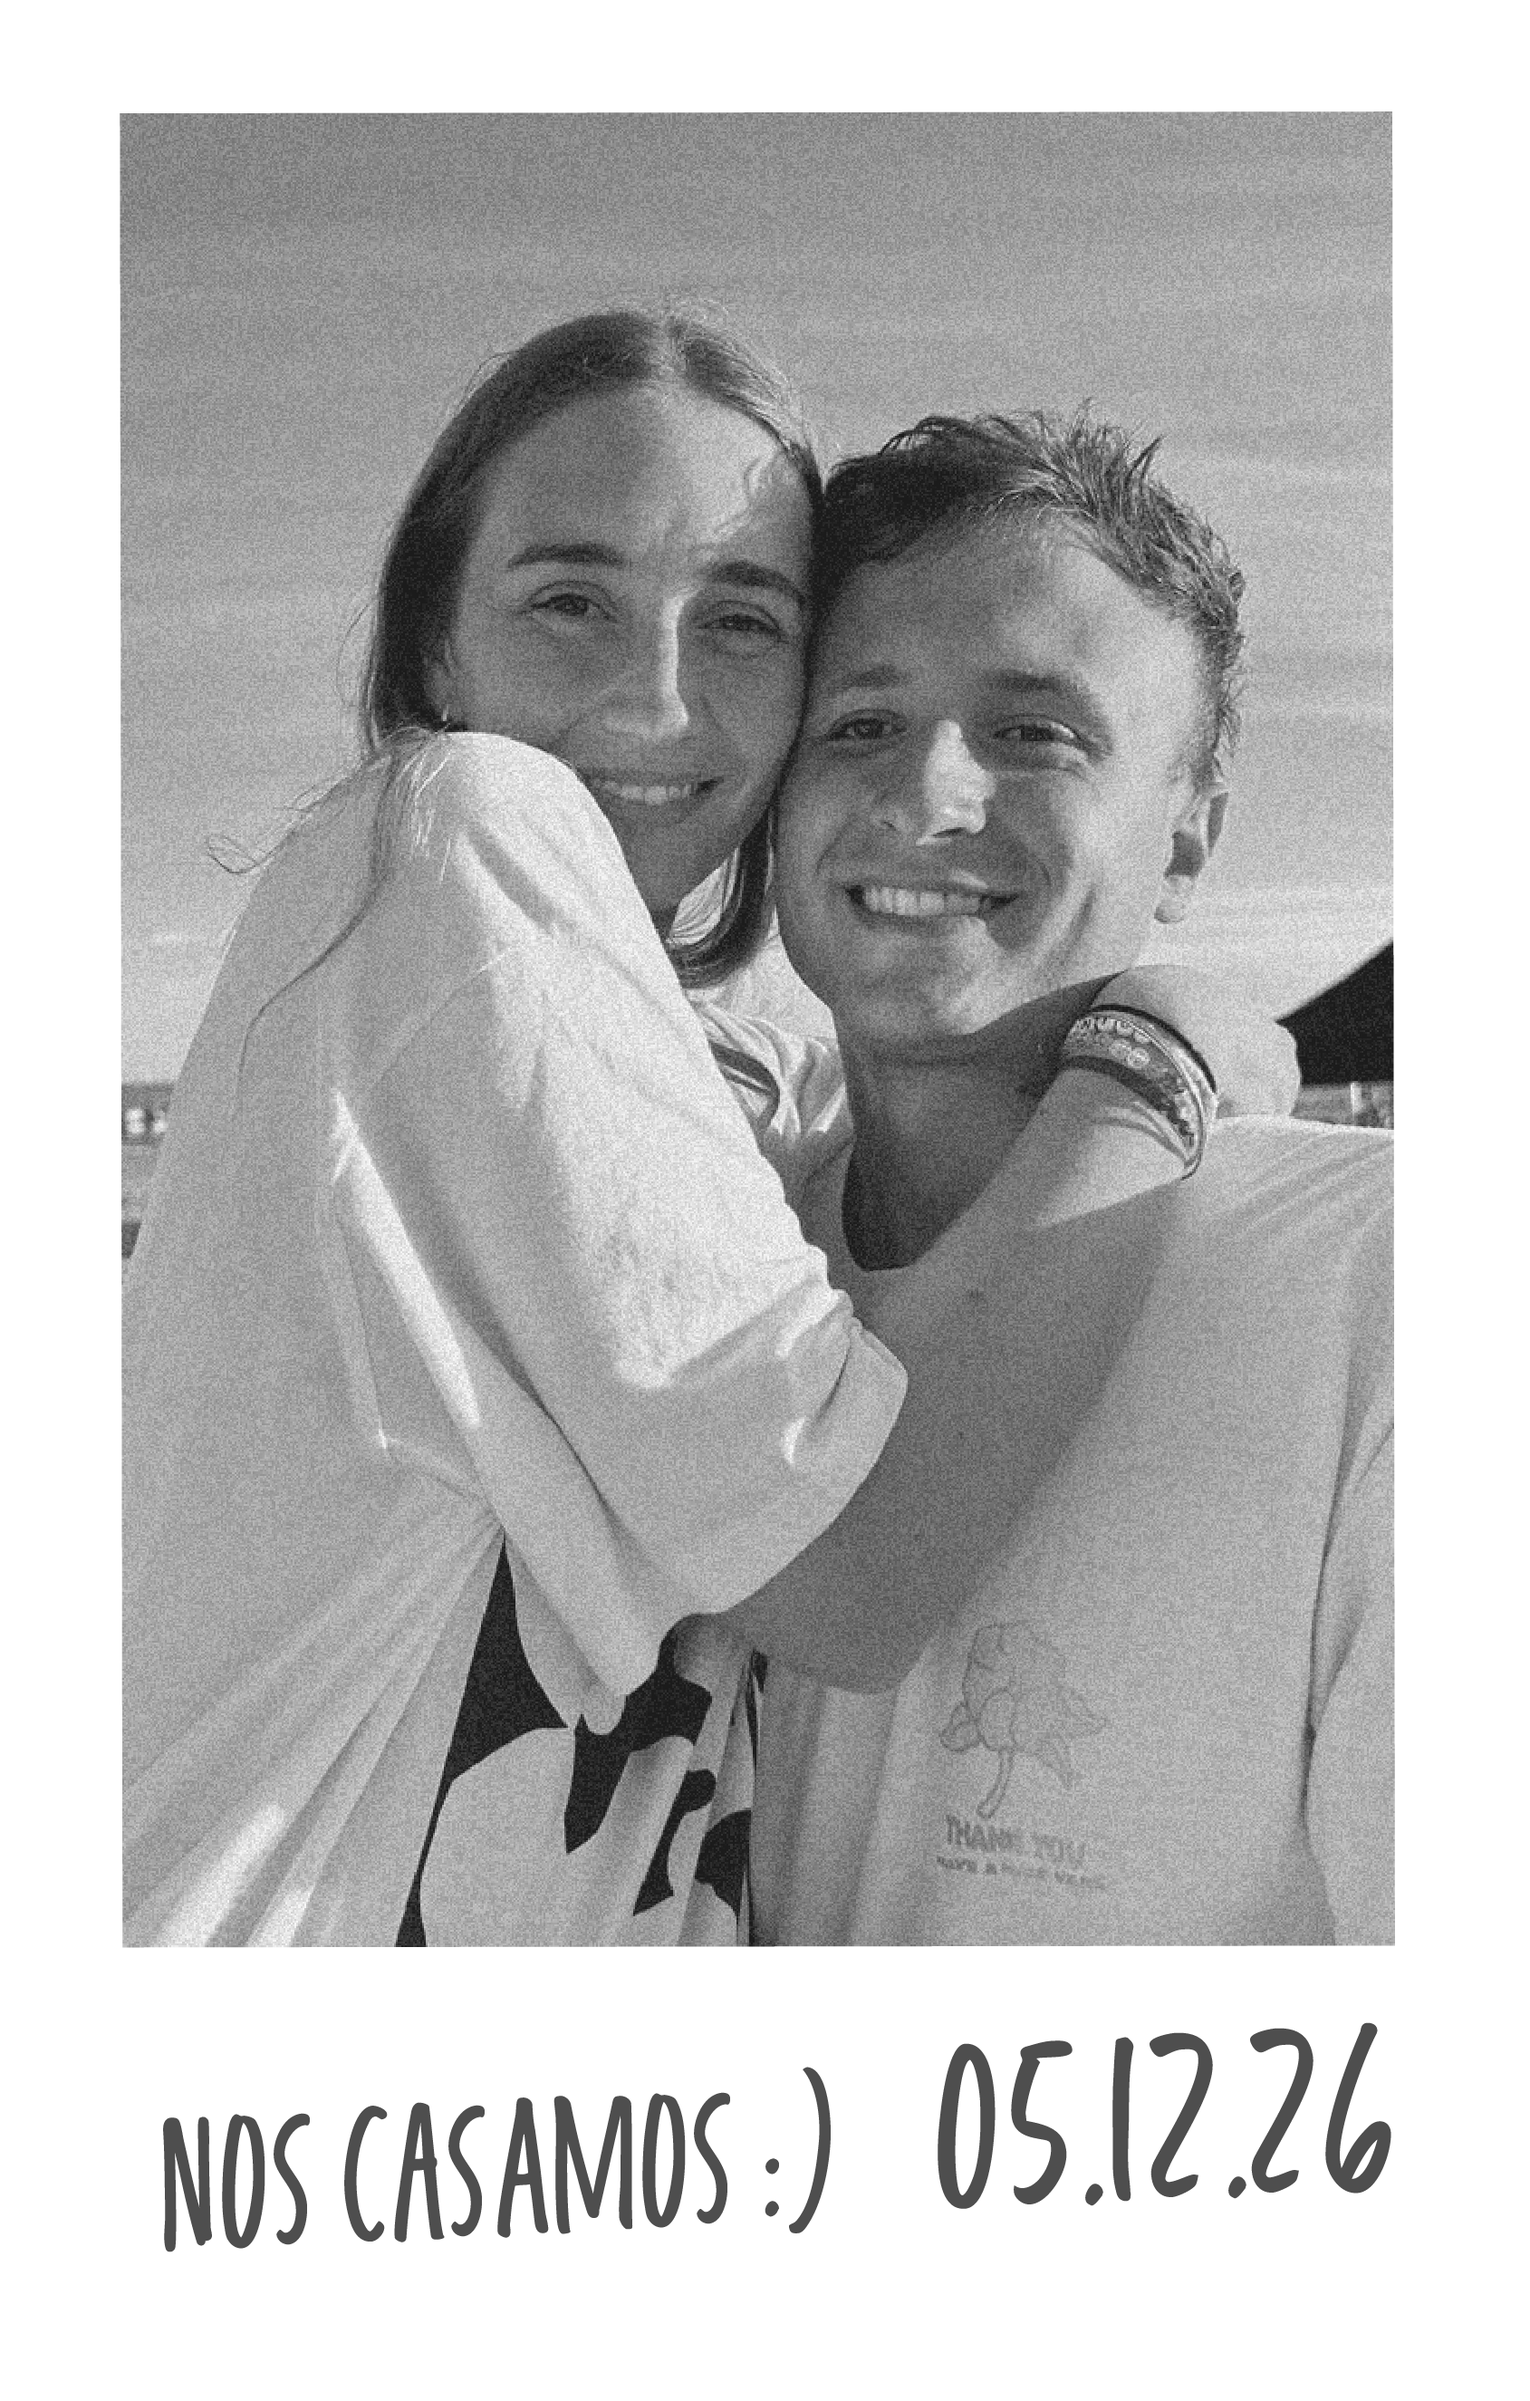
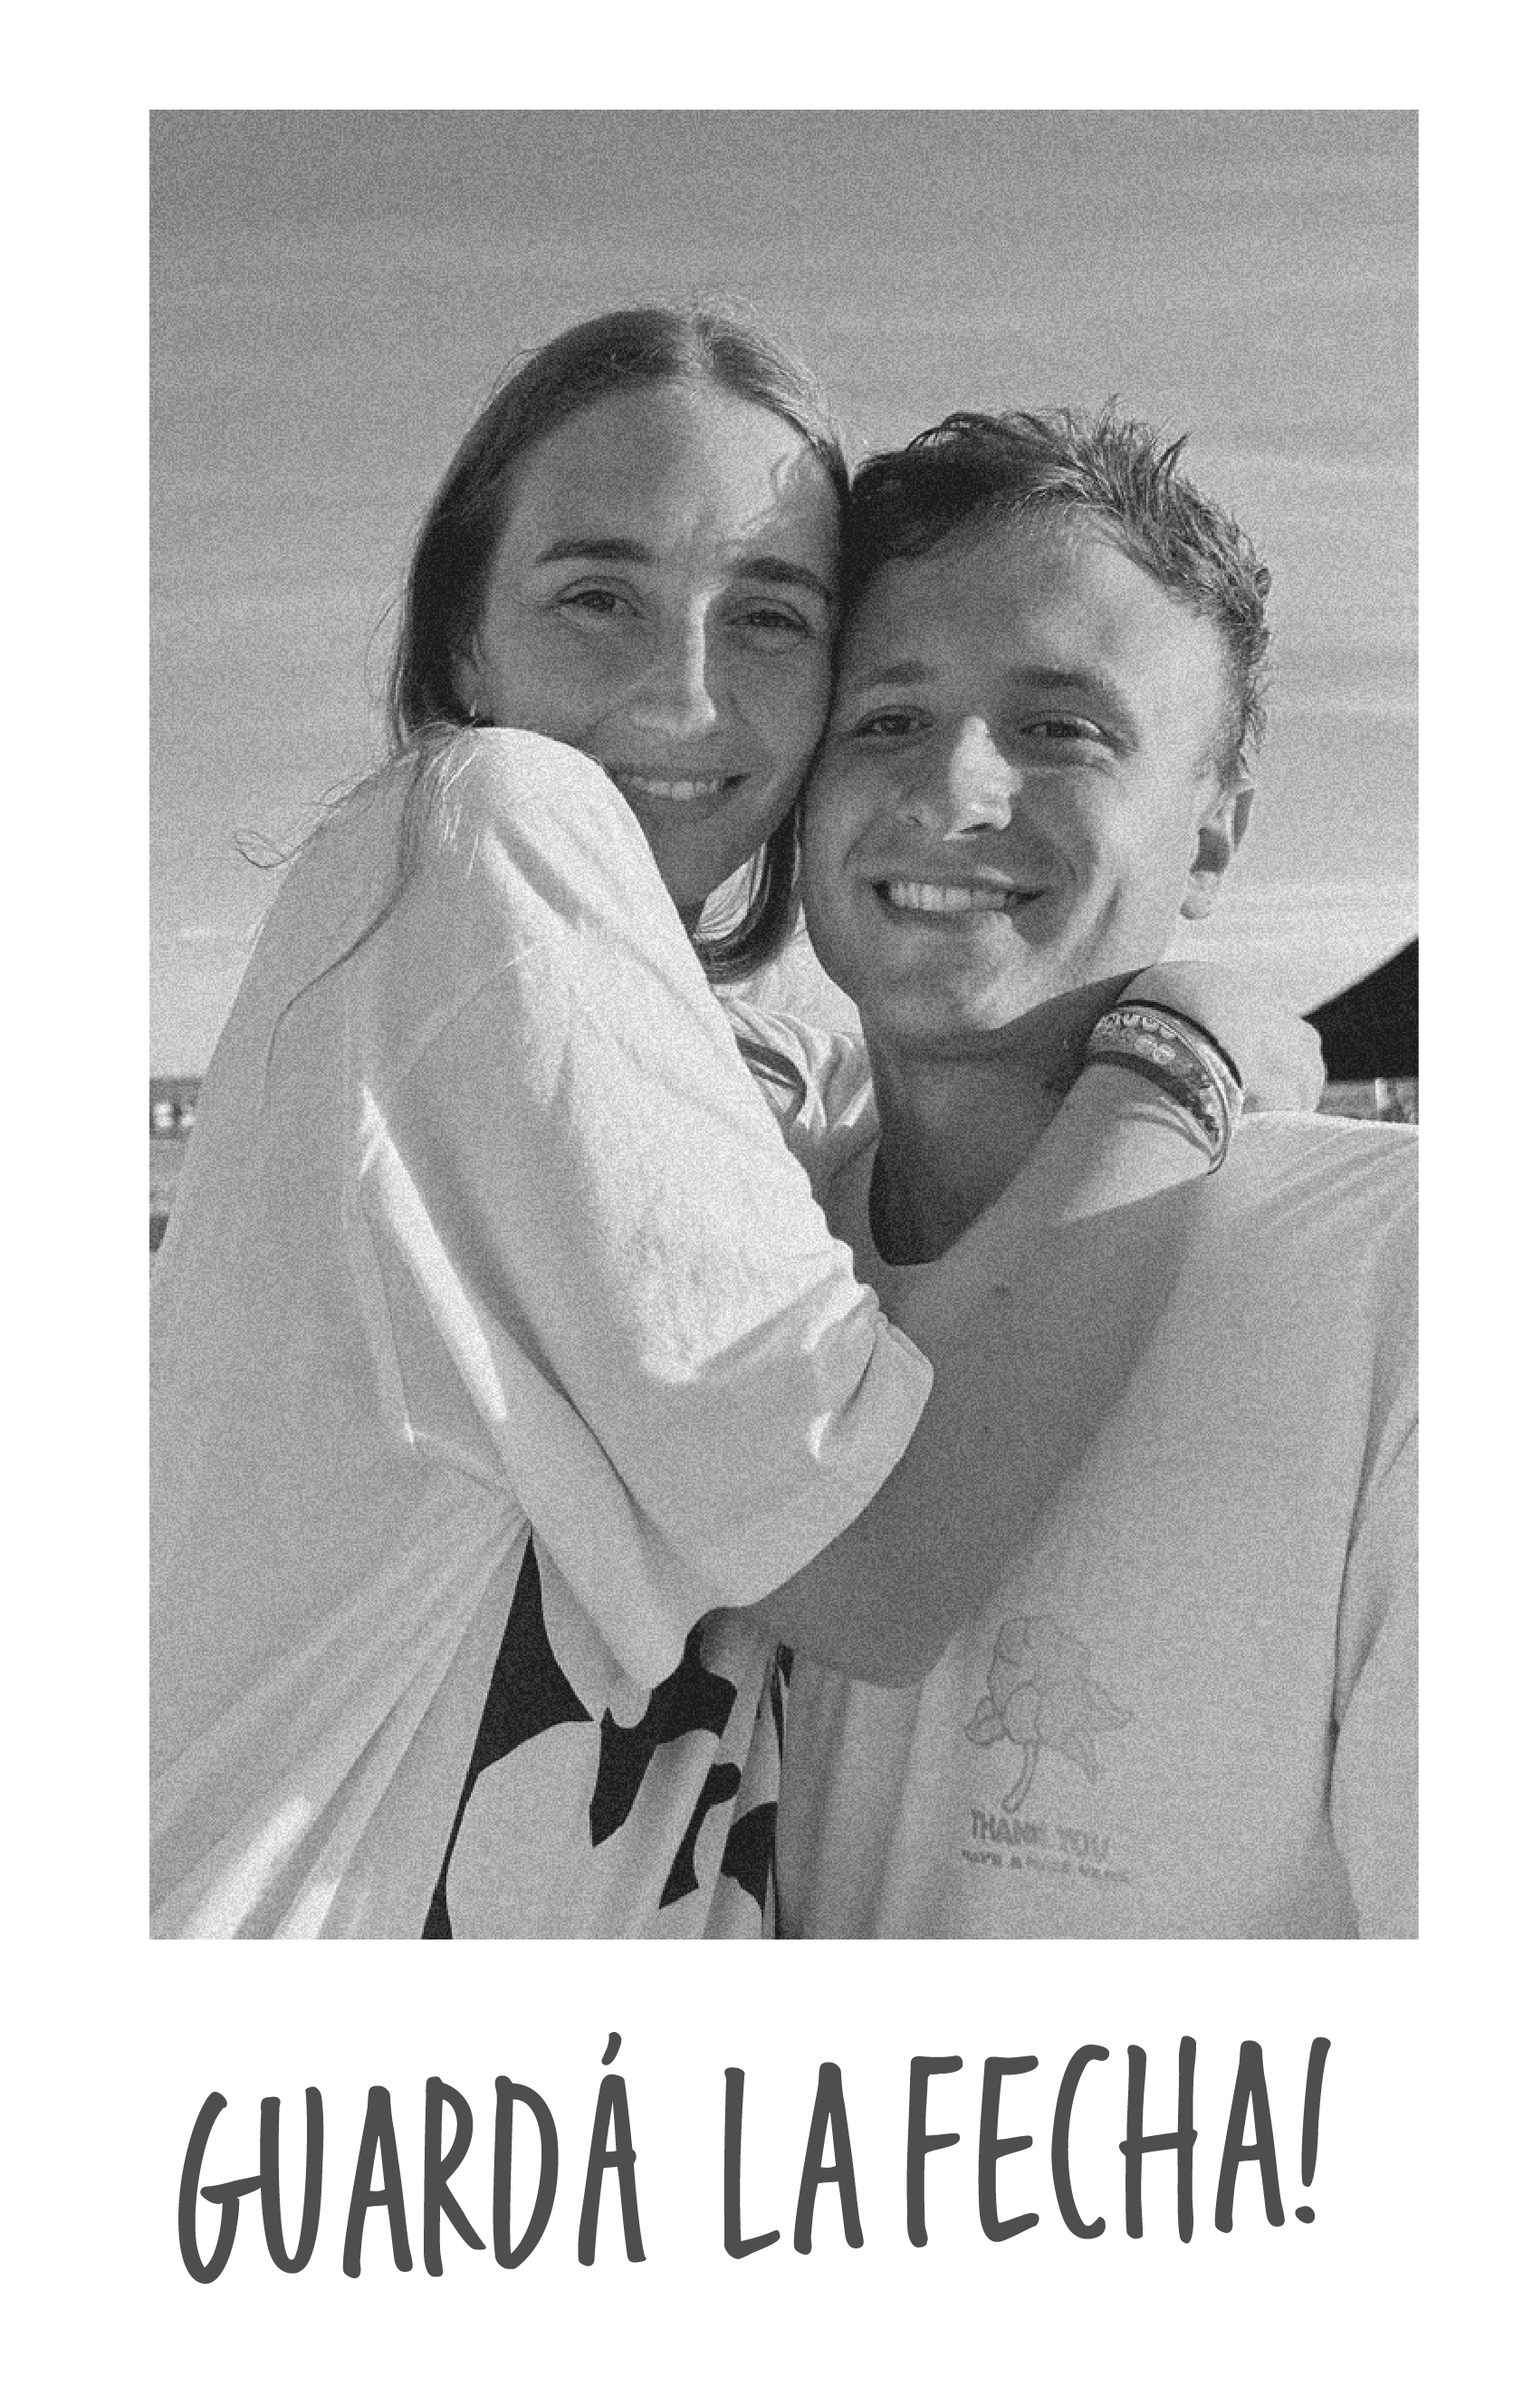
cambio archivo SectionFoto, se agrega calendario con fecha

Changed region(s): [[0.0618, 0.031, 0.9584, 0.8367], [0.0927, 0.8367, 0.9275, 0.9607], [0.1546, 0.2479, 0.1855, 0.2789]]

diff --git a/src/sections/SectionFoto.jsx b/src/sections/SectionFoto.jsx
@@ -1,23 +1,28 @@
 import { useInView } from "../hooks/useInView";
 import piliFran1 from "../assets/pili-fran1.png";
+import fecha from "../assets/fecha.png";
 
 export default function SectionFoto() {
-  const { ref, inView } = useInView({ threshold: 0.3 });
+  const { ref, inView } = useInView({ threshold: 0.2 });
 
   return (
-    <section className="flex items-center justify-center py-40 md:py-52 lg:py-60 bg-bordo">
+    <section className="relative flex items-center justify-center bg-bordo">
       {/*
         Wrapper para la animación de escala — separado de la rotación
         para evitar conflicto de transforms entre Tailwind y la clase anim-*.
       */}
+      <div ref={ref} className={`anim-scale-in ${inView ? "in-view" : ""} `}>
+        <img src={fecha} alt="" className="md:max-w-2xl" />
+      </div>
       <div
         ref={ref}
-        className={`anim-scale-in ${inView ? "in-view" : ""}`}
+        className={`anim-scale-in ${inView ? "in-view" : ""} absolute z-20 right-10 -bottom-18 md:right-30 lg:right-150 `}
+        style={{ transitionDelay: inView ? "0.35s" : "0s" }}
       >
         <img
           src={piliFran1}
           alt=""
-          className="w-60 md:w-72 lg:w-80 object-contain rotate-3"
+          className="w-40 md:w-50 lg:w-60 object-contain rotate-2"
         />
       </div>
     </section>
